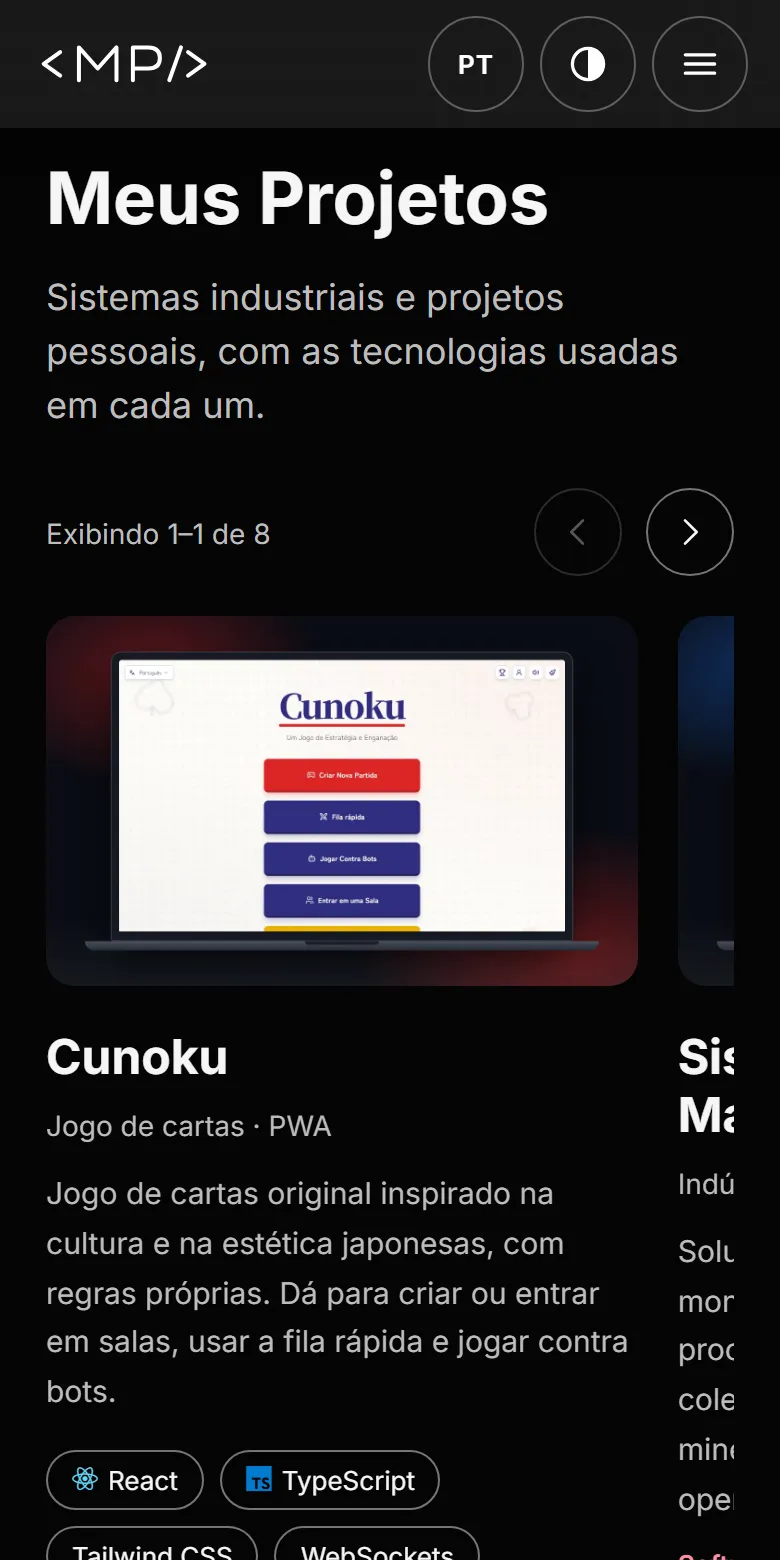
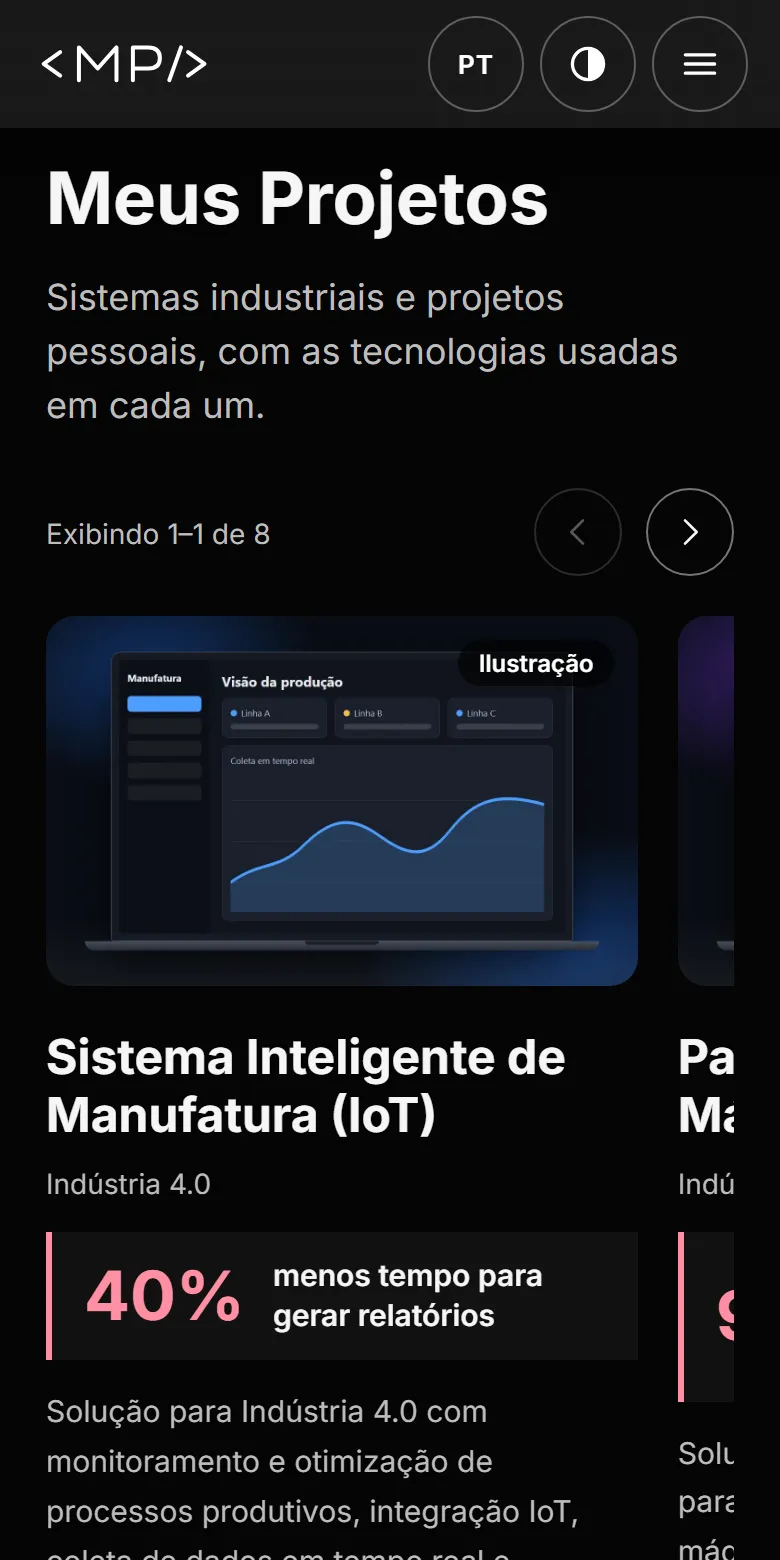
Coloca os projetos industriais primeiro e destaca os resultados.
A lista de projetos abre com os softwares registrados no INPI, e o Cunoku
passa para a quarta posição.

Os cartões do INPI, os estudos de caso e o chatbot mostram os resultados
declarados no currículo: 40% e 90%.

Changed region(s): [[0.0615, 0.3692, 0.8308, 1.0], [0.8615, 0.7692, 0.9538, 1.0], [0.8615, 0.6462, 0.9538, 0.7077]]

diff --git a/src/data/projects.js b/src/data/projects.js
@@ -5,6 +5,7 @@
  *  `demo`: só URL de deploy confirmada (responde 200). Sem deploy, deixe de fora.
  *  `image`: em public/images/projects (npm run projects:images). Sem `image`, usa o placeholder.
  *  `imageKind: 'mock'`: ilustração, não é tela real; o card mostra o selo "Ilustração".
+ *  `impact`: resultado com número, sempre o mesmo declarado no currículo.
  *  `slug`: só para quem tem estudo de caso (`problem`, `contribution`, `results`).
  *
  *  Papel no estudo de caso reaproveita `contribution`.
@@ -13,30 +14,16 @@
  */
 export const PROJECTS = [
   {
-    id: 4,
-    image: 'images/projects/cunoku.webp',
-    demo: 'https://cunoku.cunokugame.workers.dev/',
-    github: 'CunokuGame',
-    title: {
-      pt: 'Cunoku',
-      en: 'Cunoku',
-      es: 'Cunoku',
-    },
-    category: {
-      pt: 'Jogo de cartas · PWA',
-      en: 'Card game · PWA',
-      es: 'Juego de cartas · PWA',
-    },
-    description: {
-      pt: 'Jogo de cartas original inspirado na cultura e na estética japonesas, com regras próprias. Dá para criar ou entrar em salas, usar a fila rápida e jogar contra bots.',
-      en: 'Original card game inspired by Japanese culture and aesthetics, with its own rules. Create or join rooms, use the quick queue, or play against bots.',
-      es: 'Juego de cartas original inspirado en la cultura y la estética japonesas, con reglas propias. Permite crear o unirse a salas, usar la cola rápida y jugar contra bots.',
-    },
-    technologies: ['React', 'TypeScript', 'Tailwind CSS', 'WebSockets', 'Cloudflare Workers', 'PostgreSQL'],
-  },
-  {
     id: 1,
     slug: 'sistema-inteligente-de-manufatura',
+    impact: {
+      value: '40%',
+      label: {
+        pt: 'menos tempo para gerar relatórios',
+        en: 'less time to generate reports',
+        es: 'menos tiempo para generar informes',
+      },
+    },
     category: {
       pt: 'Indústria 4.0',
       en: 'Industry 4.0',
@@ -86,6 +73,14 @@ export const PROJECTS = [
   {
     id: 2,
     slug: 'parametrizacao-de-maquinas-com-ia',
+    impact: {
+      value: '90%',
+      label: {
+        pt: 'de melhoria na precisão dos processos',
+        en: 'improvement in process accuracy',
+        es: 'de mejora en la precisión de los procesos',
+      },
+    },
     category: {
       pt: 'Indústria 4.0',
       en: 'Industry 4.0',
@@ -134,6 +129,14 @@ export const PROJECTS = [
   {
     id: 3,
     slug: 'monitoramento-de-producao',
+    impact: {
+      value: '90%',
+      label: {
+        pt: 'de melhoria na eficiência do monitoramento',
+        en: 'improvement in monitoring efficiency',
+        es: 'de mejora en la eficiencia del monitoreo',
+      },
+    },
     category: {
       pt: 'Indústria 4.0',
       en: 'Industry 4.0',
@@ -178,6 +181,28 @@ export const PROJECTS = [
       'Industry 4.0',
     ],
     certificate: 'certificado-crpc-inpi-03.pdf',
+  },
+  {
+    id: 4,
+    image: 'images/projects/cunoku.webp',
+    demo: 'https://cunoku.cunokugame.workers.dev/',
+    github: 'CunokuGame',
+    title: {
+      pt: 'Cunoku',
+      en: 'Cunoku',
+      es: 'Cunoku',
+    },
+    category: {
+      pt: 'Jogo de cartas · PWA',
+      en: 'Card game · PWA',
+      es: 'Juego de cartas · PWA',
+    },
+    description: {
+      pt: 'Jogo de cartas original inspirado na cultura e na estética japonesas, com regras próprias. Dá para criar ou entrar em salas, usar a fila rápida e jogar contra bots.',
+      en: 'Original card game inspired by Japanese culture and aesthetics, with its own rules. Create or join rooms, use the quick queue, or play against bots.',
+      es: 'Juego de cartas original inspirado en la cultura y la estética japonesas, con reglas propias. Permite crear o unirse a salas, usar la cola rápida y jugar contra bots.',
+    },
+    technologies: ['React', 'TypeScript', 'Tailwind CSS', 'WebSockets', 'Cloudflare Workers', 'PostgreSQL'],
   },
   {
     id: 5,

diff --git a/src/components/Projects.css b/src/components/Projects.css
@@ -122,6 +122,38 @@
   font-size: 14px;
 }
 
+.project-impact {
+  display: flex;
+  align-items: center;
+  gap: 14px;
+  margin-top: 16px;
+  padding: 12px 16px;
+  border-left: 3px solid #b91c3c;
+  background: rgba(127, 127, 127, 0.1);
+}
+
+.project-impact strong {
+  flex-shrink: 0;
+  color: #b91c3c;
+  font-size: 34px;
+  font-weight: 700;
+  line-height: 1;
+}
+
+.project-impact span {
+  font-size: 15px;
+  font-weight: 600;
+  line-height: 1.35;
+}
+
+[data-theme="dark"] .project-impact {
+  border-left-color: #ff8fa3;
+}
+
+[data-theme="dark"] .project-impact strong {
+  color: #ff8fa3;
+}
+
 .project-card-description {
   margin-top: 14px;
   color: #444;
@@ -262,7 +294,39 @@
     font-size: 24px;
   }
 
-  .project-card-description {
+  .project-impact {
+  display: flex;
+  align-items: center;
+  gap: 14px;
+  margin-top: 16px;
+  padding: 12px 16px;
+  border-left: 3px solid #b91c3c;
+  background: rgba(127, 127, 127, 0.1);
+}
+
+.project-impact strong {
+  flex-shrink: 0;
+  color: #b91c3c;
+  font-size: 34px;
+  font-weight: 700;
+  line-height: 1;
+}
+
+.project-impact span {
+  font-size: 15px;
+  font-weight: 600;
+  line-height: 1.35;
+}
+
+[data-theme="dark"] .project-impact {
+  border-left-color: #ff8fa3;
+}
+
+[data-theme="dark"] .project-impact strong {
+  color: #ff8fa3;
+}
+
+.project-card-description {
     font-size: 15px;
   }
 }

diff --git a/src/utils/chatbotResponses.js b/src/utils/chatbotResponses.js
@@ -583,12 +583,13 @@ const builders = {
     const title = getLocalizedField(project.title, language)
     const category = getLocalizedField(project.category, language)
     const inpi = project.certificate ? `\n\n${L(language, 'inpi')}` : ''
+    const impact = project.impact ? `\n\n${project.impact.value} ${getLocalizedField(project.impact.label, language)}.` : ''
     const links = []
     if (project.demo) links.push({ type: 'link', label: `🌐 ${L(language, 'viewProject')}`, url: project.demo })
     if (project.slug) links.push({ type: 'route', label: `📄 ${L(language, 'viewDetails')}`, path: `/projetos/${project.slug}` })
     if (repo) links.push({ type: 'link', label: `🔗 ${L(language, 'github')}`, url: repo.url })
     return {
-      text: `${title} (${category})\n\n${getLocalizedField(project.description, language)}${inpi}\n\nStack: ${project.technologies.join(', ')}`,
+      text: `${title} (${category})\n\n${getLocalizedField(project.description, language)}${impact}${inpi}\n\nStack: ${project.technologies.join(', ')}`,
       links,
       suggestedReplies: [L(language, 'projectsWord'), ...(language === 'pt' ? ['Experiência', 'Contato'] : language === 'es' ? ['Experiencia', 'Contacto'] : ['Experience', 'Contact'])],
     }

diff --git a/src/data/assistantKnowledge.js b/src/data/assistantKnowledge.js
@@ -323,7 +323,8 @@ export function buildKnowledgeContext(language) {
   const projBlock = PROJECTS.map((project) => {
     const demo = project.demo ? ` URL: ${project.demo}` : ''
     const repo = getProjectGithubRepos(project)[0]
-    return `- ${getLocalizedField(project.title, language)}: ${getLocalizedField(project.description, language)} Stack: ${project.technologies.join(', ')}.${demo}${repo ? ` Repo: ${repo.url}` : ''}`
+    const impact = project.impact ? ` Result: ${project.impact.value} ${getLocalizedField(project.impact.label, language)}.` : ''
+    return `- ${getLocalizedField(project.title, language)}: ${getLocalizedField(project.description, language)}${impact} Stack: ${project.technologies.join(', ')}.${demo}${repo ? ` Repo: ${repo.url}` : ''}`
   }).join('\n')
 
   return `

diff --git a/src/components/Projects.jsx b/src/components/Projects.jsx
@@ -149,6 +149,12 @@ const Projects = () => {
                 </div>
                 <h3 className="project-card-title">{project.title}</h3>
                 <p className="project-card-category">{project.category}</p>
+                {project.impact && (
+                  <p className="project-impact">
+                    <strong>{project.impact.value}</strong>
+                    <span>{getLocalizedField(project.impact.label, language)}</span>
+                  </p>
+                )}
                 <p className="project-card-description">{project.description}</p>
                 {project.certificate && (
                   <p className="project-inpi">{t.projects.registeredInpi}</p>

diff --git a/src/components/ProjectCaseStudy.jsx b/src/components/ProjectCaseStudy.jsx
@@ -115,6 +115,11 @@ const ProjectCaseStudy = ({ project }) => {
         )}
         <section>
           <h2>{copy.results}</h2>
+          {project.impact && (
+            <p className="case-study-impact">
+              <strong>{project.impact.value}</strong> {getLocalizedField(project.impact.label, language)}
+            </p>
+          )}
           <p>{getLocalizedField(project.results, language)}</p>
         </section>
 

diff --git a/src/components/ProjectCaseStudy.css b/src/components/ProjectCaseStudy.css
@@ -148,3 +148,13 @@
 [data-theme="dark"] .case-study-seal {
   background: rgba(220, 20, 60, 0.2);
 }
+
+.case-study-impact strong {
+  color: #b91c3c;
+  font-size: 1.5em;
+  font-weight: 700;
+}
+
+[data-theme="dark"] .case-study-impact strong {
+  color: #ff8fa3;
+}
